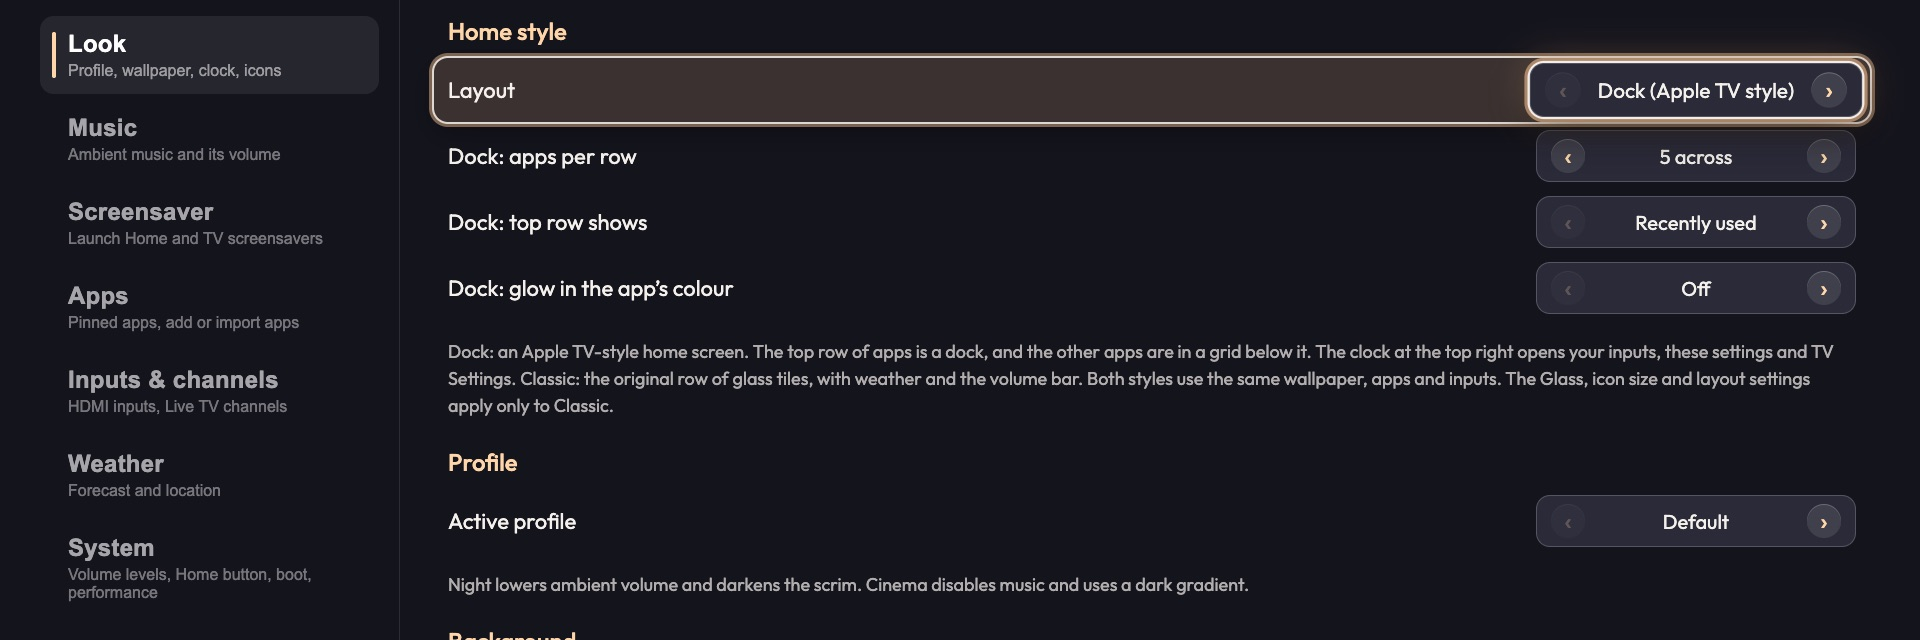
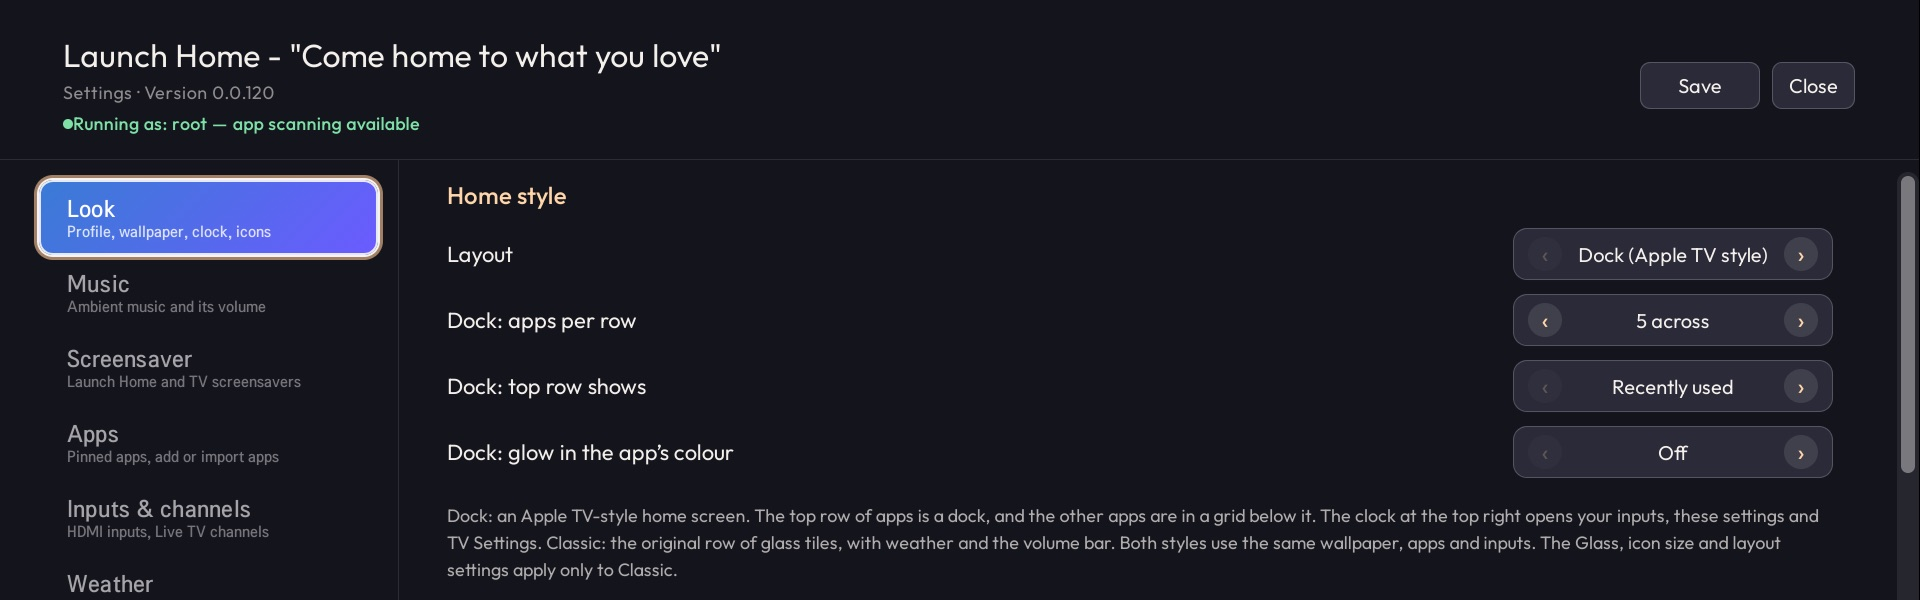
docs: use screenshots from the TV for the grid, menu and settings
The menu screenshot came from desktop Chrome, which blurs the video behind the menu. webOS can't, so it misrepresented the menu on a TV.

diff --git a/README.md b/README.md
@@ -6,6 +6,8 @@ This project is a fork of [Launch Home](https://github.com/gprot42/webos-launch-
 
 ![The home screen on an LG OLED C1 with webOS 6](docs/screenshots/home.jpg)
 
+All the Apple TV-style screenshots come from an LG OLED C1 with webOS 6.
+
 ## What it looks like
 
 The top row of apps is a dock, as on an Apple TV. The name of the app that you select shows in large type above the dock. Your other apps are in a grid below the dock.
